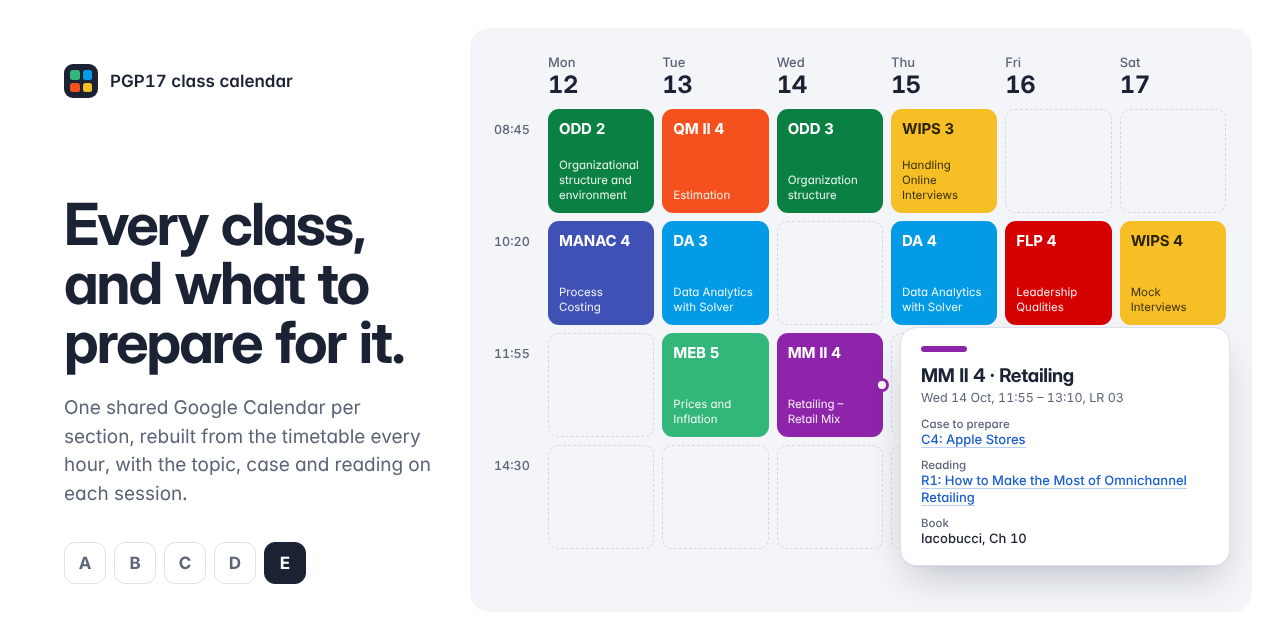
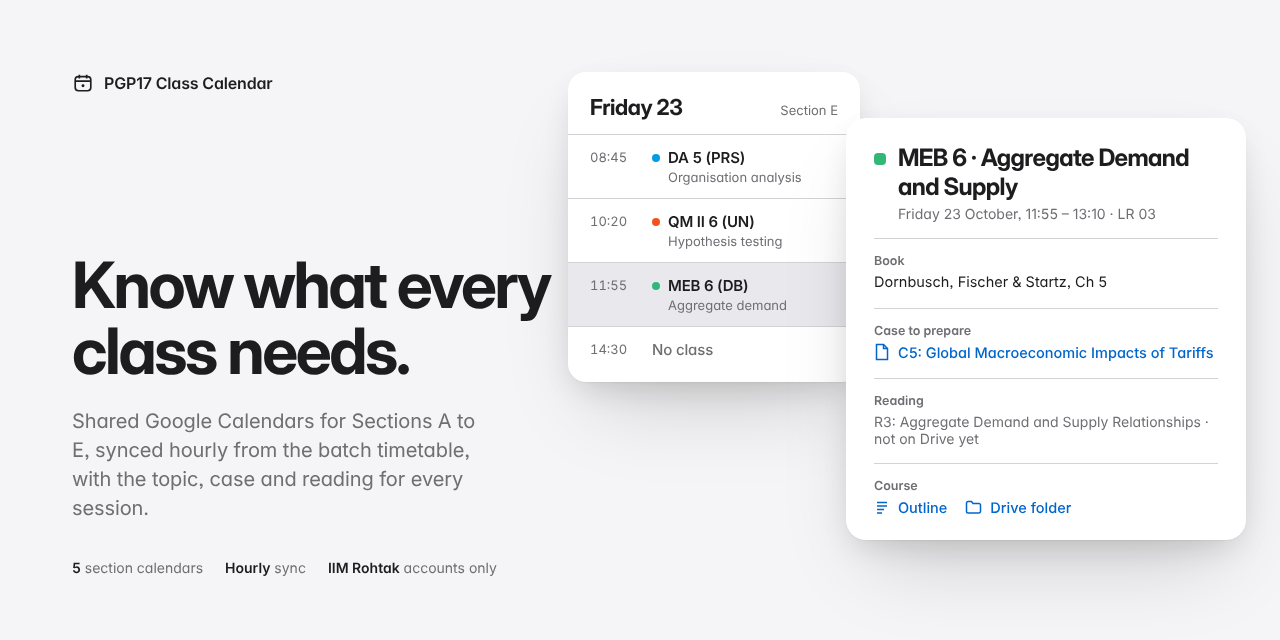
Redesign README and visuals; add versioned changelog
- New hero and architecture images with light and dark variants
- README restructured: quick start, what each class includes, how it works,
  migration, troubleshooting and maintainer sections
- CHANGELOG follows Keep a Changelog with semantic versions

diff --git a/README.md b/README.md
@@ -1,57 +1,49 @@
-<p align="center">
-  <img src="images/hero.png" alt="A week of Section E classes in course colours, with one session opened to show its case, reading and book chapter" width="100%">
-</p>
+<picture>
+  <source media="(prefers-color-scheme: dark)" srcset="images/hero-dark.png">
+  <img src="images/hero-light.png" alt="A Section E day in the calendar, with MEB 6 opened to show its book chapter, linked case, reading and course links" width="100%">
+</picture>
 
-<p align="center">
-  <img alt="Updates every hour" src="https://img.shields.io/badge/updates-every%20hour-1A2233?style=flat-square">
-  <img alt="Sections A to E" src="https://img.shields.io/badge/sections-A%20%E2%80%93%20E-8E24AA?style=flat-square">
-  <img alt="Institute accounts only" src="https://img.shields.io/badge/access-%40iimrohtak.ac.in%20only-0B8043?style=flat-square">
-  <img alt="Built with Google Apps Script" src="https://img.shields.io/badge/built%20with-Google%20Apps%20Script-039BE5?style=flat-square">
-</p>
+# PGP17 Class Calendar
 
-Every PGP17 Term II class for your section, in Google Calendar, with what to prepare for it. One shared calendar per section, rebuilt from the batch timetable every hour. Rescheduled, extra and cancelled classes follow automatically. Add it once; there's nothing to install.
+[![Release](https://img.shields.io/github/v/release/parvnar/pgp17-class-calendar-sync?style=flat-square&color=1D1D1F&label=release)](https://github.com/parvnar/pgp17-class-calendar-sync/releases)
+[![Google Apps Script](https://img.shields.io/badge/Google%20Apps%20Script-V8-1D1D1F?style=flat-square)](v2/Code.gs)
+
+Shared Google Calendars for every PGP17 Term II section. Each calendar is synced hourly from the batch timetable, and every class shows what to prepare for it. Add your section once; rescheduled, extra and cancelled classes then update on their own.
 
 ## Add your section
 
-Sign in with your **institute Google account**, then pick your section. The calendars only open for `@iimrohtak.ac.in` accounts.
+Sign in to Google with your **@iimrohtak.ac.in** account, then open your section's link. The calendars don't open for personal Gmail accounts.
 
-<p>
-  <a href="https://calendar.google.com/calendar/u/0?cid=Y182ZGJmMTc4ZTQ5MzU1YjI1YjZhOTkwMmQ5ODJmYzcwMDIxODdhNmEzZmVjOGE0OGM2M2Y4OGIwNDE5ZTYxMWNhQGdyb3VwLmNhbGVuZGFyLmdvb2dsZS5jb20"><img src="images/add-section-a.png" alt="Add Section A" width="300"></a>
-  <a href="https://calendar.google.com/calendar/u/0?cid=Y185NjNiYjkyNDQ3YmUxMzE3NzM0MmIxMTIxYzI2NTU1ZDI1MGUxYzA3ZDIyMDE0ZmEzNWUyZjFkNzIxZDE3MzZiQGdyb3VwLmNhbGVuZGFyLmdvb2dsZS5jb20"><img src="images/add-section-b.png" alt="Add Section B" width="300"></a>
-  <a href="https://calendar.google.com/calendar/u/0?cid=Y19hMTIzZTYwYzA2MjAwZWU1NjllNTI5Mzk3MTI4NzRhNmIyNTYyOWEwNWI4MmNlM2JjYTliNGM3N2M5ZTA0YmI1QGdyb3VwLmNhbGVuZGFyLmdvb2dsZS5jb20"><img src="images/add-section-c.png" alt="Add Section C" width="300"></a>
-  <a href="https://calendar.google.com/calendar/u/0?cid=Y18zN2M2MzEyZmFmMjViNzgwMGIyYjJiZWY4OWMwMTI3MDY4NWYxZTA5NDVmNDA0NTFmMzQ3MTY5YjExNTQ0MTdjQGdyb3VwLmNhbGVuZGFyLmdvb2dsZS5jb20"><img src="images/add-section-d.png" alt="Add Section D" width="300"></a>
-  <a href="https://calendar.google.com/calendar/u/0?cid=Y19lNTQxNjQ3MjNlMTE1ODJjZjc1MzQyOGNkY2ExMTcwNmVlMGIzYzM4MjM0YjhmYzk2ZTU0ZGMwOWNlNTg2ZmRlQGdyb3VwLmNhbGVuZGFyLmdvb2dsZS5jb20"><img src="images/add-section-e.png" alt="Add Section E" width="300"></a>
-</p>
-
-<details>
-<summary><b>On a laptop</b></summary>
-
-1. Open [Google Calendar](https://calendar.google.com/) and check the account at the top right is your institute ID. Switch to it if needed.
-2. Click your section's button above, then **Add**.
-</details>
+| Section | Calendar |
+| :-- | :-- |
+| A | [Add Section A to Google Calendar](https://calendar.google.com/calendar/u/0?cid=Y182ZGJmMTc4ZTQ5MzU1YjI1YjZhOTkwMmQ5ODJmYzcwMDIxODdhNmEzZmVjOGE0OGM2M2Y4OGIwNDE5ZTYxMWNhQGdyb3VwLmNhbGVuZGFyLmdvb2dsZS5jb20) |
+| B | [Add Section B to Google Calendar](https://calendar.google.com/calendar/u/0?cid=Y185NjNiYjkyNDQ3YmUxMzE3NzM0MmIxMTIxYzI2NTU1ZDI1MGUxYzA3ZDIyMDE0ZmEzNWUyZjFkNzIxZDE3MzZiQGdyb3VwLmNhbGVuZGFyLmdvb2dsZS5jb20) |
+| C | [Add Section C to Google Calendar](https://calendar.google.com/calendar/u/0?cid=Y19hMTIzZTYwYzA2MjAwZWU1NjllNTI5Mzk3MTI4NzRhNmIyNTYyOWEwNWI4MmNlM2JjYTliNGM3N2M5ZTA0YmI1QGdyb3VwLmNhbGVuZGFyLmdvb2dsZS5jb20) |
+| D | [Add Section D to Google Calendar](https://calendar.google.com/calendar/u/0?cid=Y18zN2M2MzEyZmFmMjViNzgwMGIyYjJiZWY4OWMwMTI3MDY4NWYxZTA5NDVmNDA0NTFmMzQ3MTY5YjExNTQ0MTdjQGdyb3VwLmNhbGVuZGFyLmdvb2dsZS5jb20) |
+| E | [Add Section E to Google Calendar](https://calendar.google.com/calendar/u/0?cid=Y19lNTQxNjQ3MjNlMTE1ODJjZjc1MzQyOGNkY2ExMTcwNmVlMGIzYzM4MjM0YjhmYzk2ZTU0ZGMwOWNlNTg2ZmRlQGdyb3VwLmNhbGVuZGFyLmdvb2dsZS5jb20) |
 
 <details>
 <summary><b>On an Android phone</b></summary>
 
-1. Long-press your section's button above and open it in **Chrome**. If the Calendar app opens instead, go back.
-2. In Chrome, tap **⋮** and tick **Desktop site**.
-3. Check the account at the top right is your institute ID, then tap **Add**.
-4. In the **Google Calendar app**, open **☰**. Under your institute account, make sure **PGP17 Term II – Section X** is ticked.
+1. Open your section's link in **Chrome**. If the Calendar app opens instead, go back and stay in Chrome.
+2. In Chrome, tap **⋮** and turn on **Desktop site**.
+3. Check that the account at the top right is your institute account, then tap **Add**.
+4. In the **Google Calendar** app, open **☰** and make sure *PGP17 Term II – Section X* is ticked.
 </details>
 
 <details>
 <summary><b>On an iPhone</b></summary>
 
-iOS can't subscribe to a Google calendar from a link. Add it once from a laptop with your institute ID. Then sign in to the **Google Calendar app** on your iPhone with the same account, and the section calendar appears there.
+iOS can't subscribe to a Google calendar from a link. Add the calendar once from a laptop, then sign in to the **Google Calendar** app with the same institute account. The calendar appears there.
 </details>
 
 <details>
-<summary><b>Button didn't work? Add it by Calendar ID</b></summary>
+<summary><b>If the link doesn't work</b></summary>
 
-In [Google Calendar](https://calendar.google.com/) on a laptop, choose **Other calendars → + → Subscribe to calendar**, then paste your section's ID:
+On a laptop, open [Google Calendar](https://calendar.google.com/), choose **Other calendars → + → Subscribe to calendar**, and paste your section's calendar ID.
 
 | Section | Calendar ID |
-| :-: | --- |
+| :-- | :-- |
 | A | `c_6dbf178e49355b25b6a9902d982fc7002187a6a3fec8a48c63f88b0419e611ca@group.calendar.google.com` |
 | B | `c_963bb92447be13177342b1121c26555d250e1c07d22014fa35e2f1d721d1736b@group.calendar.google.com` |
 | C | `c_a123e60c06200ee569e52939712874a6b25629a05b82ce3bca9b4c77c9e04bb5@group.calendar.google.com` |
@@ -59,91 +51,72 @@ In [Google Calendar](https://calendar.google.com/) on a laptop, choose **Other c
 | E | `c_e54164723e11582cf753428cdca11706ee0b3c38234b8fc96e54dc09ce586fde@group.calendar.google.com` |
 </details>
 
-## What's in every class
+## What each class includes
 
-<img src="images/event-preview.png" alt="A class event showing the session topic, book chapters, and linked case and reading PDFs" width="560" align="right">
+| Item | What you get |
+| :-- | :-- |
+| **Session** | Course, session number, faculty and room |
+| **Topic** | What the session covers, from the course outline |
+| **Book** | Chapters to read before class |
+| **Case and reading** | Linked to the file in the course Drive folder, with any Excel or slide files alongside |
+| **Course links** | The course outline and the subject's Drive folder |
 
-Open any class to see:
-
-- the **topic** of that session and the **book chapters** to read
-- the **case to prepare**, linked to its PDF in the course Drive folder
-- the **reading** for the session, also linked
-- the **faculty**, the **room** and the session number
-- the **course outline** and the subject's **Drive folder**, with every case, reading and slide deck
-
-Classes keep the timetable's short codes, like `MEB 5 (DB)`, so phone widgets stay readable, and each course has its own colour.
-
-If a case shows *file not on Drive yet*, its PDF hasn't been uploaded. The link appears on its own once it is.
-
-<br clear="right">
-
-## Already set up the old version?
-
-If you ran the **v1** script from this page in your own Apps Script project, switch it off. Otherwise every class shows twice.
-
-1. Open [Google Apps Script](https://script.google.com/home) with your institute ID and open your v1 project (e.g. `My class calendar`).
-2. Copy the code in **[v2/stop-v1.gs](v2/stop-v1.gs)** using the copy button next to **Raw**.
-3. In your project, replace everything in `Code.gs` with it and click **Save**.
-4. In the function menu, choose `stopV1AndClean`, click **Run**, and allow permissions if asked.
-
-The log says `v1 stopped. Removed N upcoming class events…`. Only events created by v1 are removed. Your own events and past classes stay. Then add your section above.
-
-## Put it on your home screen
-
-<img src="images/android-widget-example.jpg" alt="Android home screen with the Google Calendar schedule widget showing coloured classes" width="210" align="right">
-
-**Android:** long-press the Home screen and choose **Widgets → Google Calendar → Calendar schedule**, then drag it out. Long-press it again to resize. ([Google's guide](https://support.google.com/calendar/answer/10249848?co=GENIE.Platform%3DAndroid&hl=en))
-
-**iPhone:** open the Google Calendar app once. Then long-press the Home Screen and choose **Edit → Add Widget → Google Calendar**. ([Google's guide](https://support.google.com/calendar/answer/10249848?co=GENIE.Platform%3DiOS&hl=en))
-
-**Reminders:** in Calendar settings, open *PGP17 Term II – Section X* and set **Event notifications**, for example 30 minutes before each class.
-
-**More than one section added?** Untick the ones you don't need in the calendar list to hide them.
-
-<br clear="right">
+Titles keep the timetable's short codes, such as `MEB 6 (DB)`, so they stay readable in widgets. Each course keeps the same colour throughout. A case or reading marked *not on Drive yet* gets its link automatically once the file is uploaded.
 
 ## How it works
 
-<p align="center">
-  <img src="images/how-it-works.png" alt="The timetable, session details and course materials feed an hourly sync script that updates five section calendars" width="100%">
-</p>
+<picture>
+  <source media="(prefers-color-scheme: dark)" srcset="images/how-it-works-dark.png">
+  <img src="images/how-it-works-light.png" alt="The batch timetable, session details and course materials feed an hourly sync script, which updates the five section calendars shown in Google Calendar, Gmail and widgets" width="100%">
+</picture>
 
-A Google Apps Script on one institute account reads three things every hour: the batch timetable, the session-details sheet built from the course outlines, and the Term 2 materials folder. It then updates the five section calendars:
+One Google Apps Script, running on a single institute account, reads the timetable every hour and updates all five calendars:
 
-- **Last-minute sessions:** it reads every class cell, including the afternoon slot and sessions added with their own time, like `Mcomm 1 (DS) (16:05-17:20)`.
-- **Prep follows the session, not the date:** if MEB 4 moves from Monday to Thursday, its case and reading move with it.
-- **Changes only:** an event is rewritten only when its time, topic or links actually change.
-- **Safe by default:** if the timetable comes back broken or half-loaded, the run stops before touching any calendar.
+- **Last-minute sessions.** Every class cell is read, including the afternoon slot and sessions added with their own time, such as `Mcomm 1 (DS) (16:05-17:20)`.
+- **Prep follows the session.** If MEB 4 moves from Monday to Thursday, its case and reading move with it.
+- **Changes only.** An event is rewritten only when its time, topic or links change.
+- **Safe by default.** If the timetable comes back incomplete, the run stops before touching any calendar.
+
+## Moving from version 1
+
+If you set up the v1 script in your own Apps Script project, switch it off. Otherwise every class appears twice.
+
+1. Open your v1 project in [Google Apps Script](https://script.google.com/home).
+2. Replace the contents of `Code.gs` with [`v2/stop-v1.gs`](v2/stop-v1.gs) and save.
+3. Run `stopV1AndClean` and allow access when asked.
+
+It removes only the upcoming events v1 created. Your own events and past classes stay. Then add your section above.
 
 ## Troubleshooting
 
-| What you see | What to do |
-| --- | --- |
-| *You do not have access* / can't add | You're signed in with a personal Gmail account. Switch to your institute ID. |
-| Added, but nothing on your phone | In the Calendar app, open **☰** and tick *PGP17 Term II – Section X* under the institute account. |
-| Every class shows twice | Your v1 script is still running. See [Already set up the old version?](#already-set-up-the-old-version) |
-| A case link asks you to *request access* | Open it while signed in with your institute ID. |
-| A class doesn't match the timetable | Calendars refresh hourly. If it's still wrong after an hour, tell the maintainer. |
+| Symptom | Fix |
+| :-- | :-- |
+| *You don't have access* | You're signed in with a personal account. Switch to your institute account. |
+| Added, but not on your phone | In the Calendar app, open **☰** and tick *PGP17 Term II – Section X*. |
+| Not in Gmail's side panel | Tick the calendar at [calendar.google.com](https://calendar.google.com/), then reload Gmail with Ctrl+Shift+R. |
+| Every class appears twice | Your v1 script is still running. See [Moving from version 1](#moving-from-version-1). |
+| A file asks you to request access | Open it while signed in with your institute account. |
+| A class differs from the timetable | Calendars refresh hourly. If it's still wrong after an hour, open an issue. |
 
 ## For maintainers
 
-The whole system runs from one account. Setup, configuration and the session-details sheet are covered in **[v2/SETUP.md](v2/SETUP.md)**.
+The system runs from one account; nobody else needs a copy of the script. Setup and day-to-day upkeep are covered in [**v2/SETUP.md**](v2/SETUP.md).
 
 ```
-├── v2/
-│   ├── Code.gs              sync script for all sections, runs hourly
-│   ├── appsscript.json      manifest that turns on the Calendar API service
-│   ├── stop-v1.gs           turns off a v1 install and removes its events
-│   ├── SETUP.md             maintainer guide
-│   └── tools/
-│       └── build_details.py builds the session-details sheet from the prep plan
-├── v1/                      original per-person script and its guide
-├── images/                  README visuals
-└── CHANGELOG.md
+v2/
+  Code.gs              Sync script for all sections
+  appsscript.json      Manifest; turns on the Google Calendar API service
+  stop-v1.gs           Switches off a v1 install and removes its events
+  SETUP.md             Maintainer guide
+  tools/
+    build_details.py   Builds the session-details sheet from the course prep plan
+v1/                    The original per-person script and its guide
+images/                Documentation images (light and dark)
+CHANGELOG.md           Version history
 ```
 
-The private session-details sheet and materials folder IDs aren't stored here. See [CHANGELOG.md](CHANGELOG.md) for what changed in v2.
+Private IDs for the session-details sheet and the materials folder aren't stored in this repository. Changes are listed in [CHANGELOG.md](CHANGELOG.md) and on the [Releases](https://github.com/parvnar/pgp17-class-calendar-sync/releases) page.
 
 ---
 
-<p align="center"><sub>Made by <a href="https://github.com/parvnar">Parv Nar</a> for the PGP17 batch.</sub></p>
+<sub>Made by [Parv Nar](https://github.com/parvnar) for the PGP17 batch at IIM Rohtak. Not an official institute service.</sub>

diff --git a/CHANGELOG.md b/CHANGELOG.md
@@ -1,25 +1,38 @@
 # Changelog
 
-## v2.2: faster sync, Gmail fix (October 2026)
-- Drive links are kept in the script (`DRIVE_LINKS`), so the hourly sync no longer scans Drive. Set `scanDriveAutomatically: true` to go back to scanning.
-- Excel sheets, slide decks and alternate versions show as extra links next to a case, and session cheat sheets appear under "Class sheets".
-- Your own section's calendar is ticked in Google Calendar on the web, so classes show in Gmail's side panel. Run `showMySectionInGmail` to redo it.
+All notable changes to this project. Versions follow [Semantic Versioning](https://semver.org/).
 
-## v2.1: course links (October 2026)
-- Every class now links to its **course outline** and the subject's **Drive folder**.
-- New **Courses** tab in the session-details sheet. Folder and outline links are found in the Term 2 Drive folder automatically, by course code or full course name, and links you paste by hand are kept.
+## [2.2.0] – 2026-10-20
 
-## v2: shared section calendars with prep details (October 2026)
-- **One shared calendar per section** (A–E), run centrally and updated hourly. Nobody needs their own script any more: subscribe with your institute ID.
-- **Prep details in every class:** topic, book chapters, case and reading with Drive links, room, faculty and session number.
-- **Course materials linked automatically:** files in the Term 2 Drive folder are matched to each case and reading by title, HBS product number or C#/R# code. Manual links in the sheet are never overwritten.
-- **Every class in the timetable is picked up:** the 14:30 slot, plus extra sessions with their own time written in the cell, e.g. `Mcomm 1 (DS) (16:05-17:20)`.
-- **Rescheduled sessions keep their material:** prep details follow the subject and session number, not the date.
-- **Fewer calendar edits:** events are only changed when their content actually changes, and long runs continue automatically instead of hitting Apps Script's time limit.
-- **Same safety check:** a broken or half-loaded timetable stops the run before any calendar change.
-- **Domain-only sharing:** the calendars open only for IIM Rohtak accounts.
-- **Switching from v1:** `v2/stop-v1.gs` stops a v1 install and removes its upcoming events.
+### Added
+- Every class links to the **course outline** and the subject's **Drive folder**.
+- Excel sheets, slide decks and alternate versions of a case appear as extra links next to it.
+- Session cheat sheets appear under *Class sheets* (MEB sessions 2 and 3).
+- `showMySectionInGmail` ticks your own section in Google Calendar on the web, which is what Gmail's side panel shows.
+- Optional **Courses** tab in the session-details sheet to override folder and outline links.
 
-## v1 (September–October 2026)
-- A personal Apps Script per person, choosing the section with `TARGET_SECTION`.
-- Adds each class to the person's own calendar with subject and faculty.
+### Changed
+- Drive links are kept in the script (`DRIVE_LINKS`) instead of being found by an hourly Drive scan, so each sync is faster. Set `scanDriveAutomatically: true` to scan again.
+- The README has been redesigned, with light and dark images.
+
+## [2.0.0] – 2026-10-08
+
+### Added
+- One shared calendar per section (A–E), run from a single account and synced hourly. Nobody needs their own script.
+- Topic, book chapters, case and reading for every session, with links to the course materials.
+- Classes outside the main slots, including sessions with their own time written in the cell.
+- Calendars shared read-only with IIM Rohtak accounts only.
+- `v2/stop-v1.gs` to switch off a v1 install and remove its upcoming events.
+
+### Changed
+- Prep details follow the subject and session number, not the date, so they move with rescheduled classes.
+- Events are only rewritten when their content changes; long runs continue automatically.
+
+## [1.0.0] – 2026-10-04
+
+### Added
+- Personal Apps Script per student that adds their section's classes to their own calendar, with subject and faculty.
+
+[2.2.0]: https://github.com/parvnar/pgp17-class-calendar-sync/releases/tag/v2.2.0
+[2.0.0]: https://github.com/parvnar/pgp17-class-calendar-sync/releases/tag/v2.0.0
+[1.0.0]: https://github.com/parvnar/pgp17-class-calendar-sync/releases/tag/v1.0.0

diff --git a/v2/SETUP.md b/v2/SETUP.md
@@ -36,7 +36,7 @@ Do everything signed in with your **institute Google account**.
      take two runs; the second run starts by itself a minute later.
 
 ## 4. Share with the batch
-Copy each section's link and Calendar ID from the **Calendar Links** tab into the tables in the [main README](../README.md). Then send each section its link. Message to paste:
+The section links and Calendar IDs in the [main README](../README.md) come from the **Calendar Links** tab. Then send each section its link. Message to paste:
 
 > Section X class calendar (auto-updates hourly from the timetable, with topic, case and reading links for every session).
 > Open this link on a laptop, or in Chrome with "Desktop site" on, while signed in with your **institute ID**, then tap **Add**:
